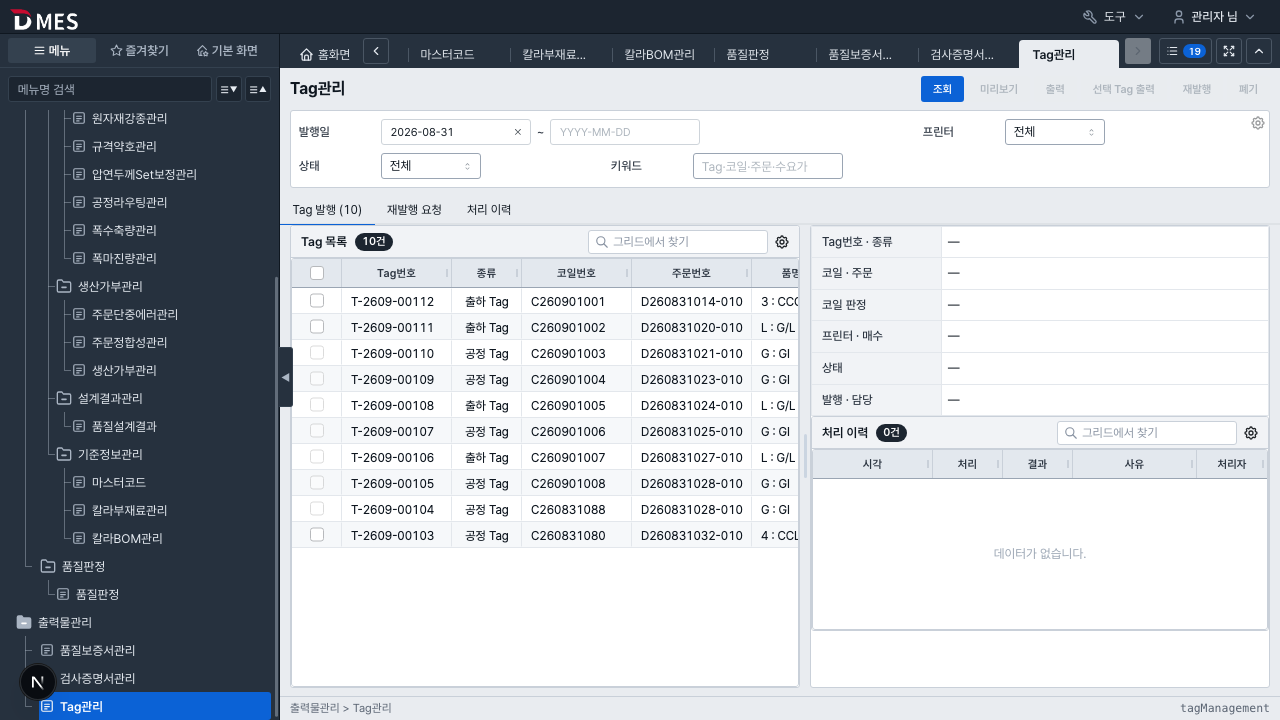
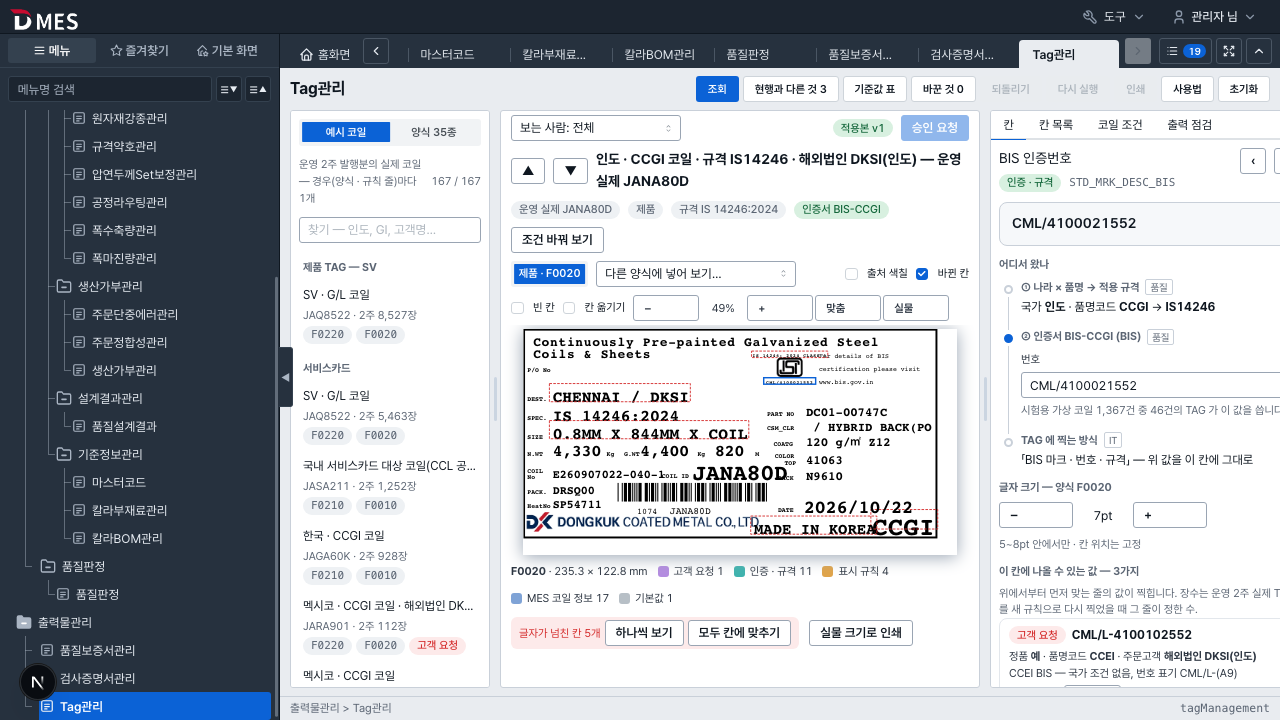
docs(mqc): 보증서·Tag 화면 캡처와 스모크 시험을 더한다
쉬운 설명: 새 품질보증서관리·Tag관리 화면을 자동으로 열고 고치기 → 승인 요청 → 승인까지 눌러 보는 시험을 넣고, 화면 캡처를 새로 찍었습니다.

- e2e/mqc-wty-smoke.spec.ts, e2e/mqc-tag-smoke.spec.ts: 탭 열기, 초안 → 승인 요청 → 승인(v2), 끝나면 초기화
- 화면 캡처 갱신(19개 + 검사증명서 + 보증서 6장 + Tag 6장)
- README: 출력물 화면 원천 표기

Changed region(s): [[0.2188, 0.0917, 1.0, 0.9472], [0.9688, 0.4889, 1.0, 0.5194], [0.9688, 0.3361, 1.0, 0.3667]]

diff --git a/src/frontend/e2e/mqc-tag-smoke.spec.ts b/src/frontend/e2e/mqc-tag-smoke.spec.ts
@@ -1,0 +1,78 @@
+import path from "node:path";
+import { expect, test } from "@playwright/test";
+
+import { LOGIN_USER, T, login, walkMenuPath } from "./support/common";
+
+/**
+ * Tag관리(TAG 발행 시뮬레이터 목업 이식, docs/mqc/demo/tag-contract.md) 스모크.
+ * 오른쪽 탭 4개와 기준값 표를 열어 화면을 찍고, 칸 값 고치기 → 초안 → 승인 요청 → 승인(v2)을 눌러 본다. 끝나면 초기화한다.
+ */
+const SHOTS = process.env.MQC_DEMO_SHOTS ?? path.resolve(__dirname, "../../..", "docs/mqc/demo/screens");
+const TABS = [
+  ["칸", "tag-1-field"],
+  ["칸 목록", "tag-2-list"],
+  ["코일 조건", "tag-3-coil"],
+  ["출력 점검", "tag-4-out"],
+] as const;
+
+test.afterAll(async ({ request }) => {
+  await request.post("http://localhost:8093/api/mqc/oasis/tagManagement/reset", {
+    headers: {
+      "X-Client-Key": process.env.BACKEND_CLIENT_KEY ?? "dmes-bff-local-client-key-2026",
+      "X-Authenticated-User": "admin",
+      "X-Authenticated-Role": "SYSADMIN",
+    },
+    data: { meta: { menuId: "tagManagement" }, params: {} },
+  });
+});
+
+test("Tag관리 탭과 승인 흐름이 오류 없이 동작한다", async ({ page }) => {
+  test.setTimeout(5 * 60_000);
+  const problems: string[] = [];
+  page.on("console", (m) => { if (m.type() === "error") problems.push(`console: ${m.text().slice(0, 300)}`); });
+  page.on("pageerror", (e) => problems.push(`pageerror: ${e.message.slice(0, 300)}`));
+  page.on("response", async (r) => {
+    if (!r.url().includes("/api/mqc/")) return;
+    if (r.status() >= 400) { problems.push(`HTTP ${r.status()} ${r.url()}`); return; }
+    try {
+      const b = await r.json();
+      if (b?.meta?.success === false) problems.push(`FAIL ${r.url()} ${b?.meta?.message ?? ""}`);
+    } catch { /* JSON 아님 */ }
+  });
+
+  await page.setViewportSize({ width: 1600, height: 1000 });
+  await login(page, LOGIN_USER);
+  await walkMenuPath(page, [/^출력물관리$/, /^Tag관리$/]);
+  const tab = page.locator(".portal-shell__tab-page:visible");
+  const state = tab.getByTestId("tag-state");
+  await expect(state).toHaveText("적용본 v1", { timeout: T.LONG });
+  await expect(tab.getByTestId("tag-stage")).toBeVisible({ timeout: T.SLOW });
+  await page.waitForTimeout(1500);
+
+  for (const [name, file] of TABS) {
+    await tab.getByRole("tab", { name, exact: true }).click();
+    await page.waitForTimeout(1200);
+    await page.screenshot({ path: path.join(SHOTS, `${file}.png`) });
+  }
+  await tab.getByRole("button", { name: "기준값 표" }).first().click();
+  await page.waitForTimeout(1200);
+  await page.screenshot({ path: path.join(SHOTS, "tag-5-table.png") });
+  await page.keyboard.press("Escape");
+  await expect(page.getByRole("dialog")).toHaveCount(0, { timeout: T.SLOW });
+
+  await tab.getByRole("tab", { name: "칸", exact: true }).click();
+  const ed = tab.locator("input[data-ed]").first();
+  await ed.fill(`${await ed.inputValue()}-1`);
+  await expect(state).toHaveText("초안 — 발행 안 됨", { timeout: T.SLOW });
+  await page.waitForTimeout(1500);
+  await page.screenshot({ path: path.join(SHOTS, "tag-6-draft.png") });
+  await tab.getByRole("button", { name: "승인 요청" }).click();
+  await page.getByRole("dialog").getByRole("button", { name: "승인 요청" }).click();
+  await expect(state).toHaveText("승인 대기", { timeout: T.SLOW });
+  await page.keyboard.press("Escape");
+  await tab.getByRole("button", { name: "승인", exact: true }).click();
+  await expect(state).toHaveText("적용본 v2", { timeout: T.SLOW });
+
+  console.log(problems.length ? `문제 ${problems.length}건\n${problems.join("\n")}` : "문제 없음");
+  expect(problems).toEqual([]);
+});

diff --git a/src/frontend/e2e/mqc-wty-smoke.spec.ts b/src/frontend/e2e/mqc-wty-smoke.spec.ts
@@ -1,0 +1,74 @@
+import path from "node:path";
+import { expect, test } from "@playwright/test";
+
+import { LOGIN_USER, T, login, walkMenuPath } from "./support/common";
+
+/**
+ * 품질보증서관리(보증서 편집 목업 이식, docs/mqc/demo/wty-contract.md) 스모크.
+ * 탭 5개를 열어 화면을 찍고, 문구 모두 바꾸기 → 초안 → 승인 요청 → 승인(v2)을 눌러 본다. 끝나면 초기화한다.
+ */
+const SHOTS = process.env.MQC_DEMO_SHOTS ?? path.resolve(__dirname, "../../..", "docs/mqc/demo/screens");
+const TABS = [
+  ["조항·블록", "wty-1-clause"],
+  ["기준값", "wty-2-value"],
+  ["양식", "wty-3-form"],
+  ["이미지·서명", "wty-4-image"],
+  ["이력", "wty-5-history"],
+] as const;
+
+test.afterAll(async ({ request }) => {
+  await request.post("http://localhost:8093/api/mqc/oasis/qualityCertificate/reset", {
+    headers: {
+      "X-Client-Key": process.env.BACKEND_CLIENT_KEY ?? "dmes-bff-local-client-key-2026",
+      "X-Authenticated-User": "admin",
+      "X-Authenticated-Role": "SYSADMIN",
+    },
+    data: { meta: { menuId: "qualityCertificate" }, params: {} },
+  });
+});
+
+test("품질보증서관리 탭과 승인 흐름이 오류 없이 동작한다", async ({ page }) => {
+  test.setTimeout(5 * 60_000);
+  const problems: string[] = [];
+  page.on("console", (m) => { if (m.type() === "error") problems.push(`console: ${m.text().slice(0, 300)}`); });
+  page.on("pageerror", (e) => problems.push(`pageerror: ${e.message.slice(0, 300)}`));
+  page.on("response", async (r) => {
+    if (!r.url().includes("/api/mqc/")) return;
+    if (r.status() >= 400) { problems.push(`HTTP ${r.status()} ${r.url()}`); return; }
+    try {
+      const b = await r.json();
+      if (b?.meta?.success === false) problems.push(`FAIL ${r.url()} ${b?.meta?.message ?? ""}`);
+    } catch { /* JSON 아님 */ }
+  });
+
+  await page.setViewportSize({ width: 1600, height: 1000 });
+  await login(page, LOGIN_USER);
+  await walkMenuPath(page, [/^출력물관리$/, /^품질보증서관리$/]);
+  const tab = page.locator(".portal-shell__tab-page:visible");
+  await expect(tab.getByText("품질보증서관리").first()).toBeVisible({ timeout: T.SLOW });
+  const state = tab.getByTestId("wty-state");
+  await expect(state).toHaveText("승인 완료", { timeout: T.SLOW });
+  await page.waitForTimeout(1500);
+
+  for (const [name, file] of TABS) {
+    await tab.getByRole("tab", { name }).click();
+    await page.waitForTimeout(1200);
+    await page.screenshot({ path: path.join(SHOTS, `${file}.png`) });
+  }
+
+  await tab.getByRole("tab", { name: "조항·블록" }).click();
+  await tab.getByLabel("찾을 문구").fill("동국씨엠㈜");
+  await tab.getByLabel("바꿀 문구").fill("동국씨엠 주식회사");
+  await tab.getByRole("button", { name: "모두 바꾸기" }).click();
+  await expect(state).toHaveText("초안 (미승인)", { timeout: T.SLOW });
+  await page.waitForTimeout(1500);
+  await page.screenshot({ path: path.join(SHOTS, "wty-6-draft.png") });
+  await tab.getByRole("button", { name: "승인 요청" }).click();
+  await expect(state).toHaveText("승인 대기", { timeout: T.SLOW });
+  await tab.getByRole("button", { name: "승인", exact: true }).click();
+  await expect(state).toHaveText("승인 완료", { timeout: T.SLOW });
+  await expect(tab.getByText("적용본 v2")).toBeVisible({ timeout: T.SLOW });
+
+  console.log(problems.length ? `문제 ${problems.length}건\n${problems.join("\n")}` : "문제 없음");
+  expect(problems).toEqual([]);
+});

diff --git a/docs/mqc/demo/README.md b/docs/mqc/demo/README.md
@@ -40,9 +40,9 @@
 | qdb | colorSubmaterial | 칼라부재료관리 | (자리표시) |
 | qdb | colorBom | 칼라BOM관리 | (자리표시) |
 | qjd 품질판정 | qualityJudgment | 품질판정 | quality-judgment.html |
-| qpr 출력물관리 | qualityCertificate | 품질보증서관리 | quality-certificate.html |
+| qpr 출력물관리 | qualityCertificate | 품질보증서관리 | `~/Downloads/보증서 편집 시뮬레이터.html`(2026-11-25 교체, 계약 [wty-contract.md](wty-contract.md)) |
 | qpr | inspectionCertificate | 검사증명서관리 | `~/Downloads/mockup` 검사증명서 발행 시뮬레이터(2026-11-25 교체, 계약 [mtc-contract.md](mtc-contract.md)) |
-| qpr | tagManagement | Tag관리 | tag-management.html |
+| qpr | tagManagement | Tag관리 | `~/Downloads/TAG_발행_시뮬레이터.html`(2026-11-25 교체, 계약 [tag-contract.md](tag-contract.md)) |
 
 OASIS 권한키는 `mqc/{serviceId}/{action}` 이다. 화면 전용 서비스는 serviceId 를 화면 objectId 와 같게 둔다. 여러 화면이 함께 쓰는 서비스는 `qcdRule`(Maru 룰·코드, 구현 완료), `qcdOrder`(주문), `qcdMaster`(기준정보) 세 개이며 권한이 등록돼 있다. 쓸 수 있는 action 이름은 `CoreRbacSeeder` 의 `allActions` 에 있는 것만이다(search, save, delete, confirm, cancel, history, view, execute, calculate, apply, run, judge, codes, send, issue, reissue 등). 새 action 이름이 필요하면 조정자에게 알린다.
 
